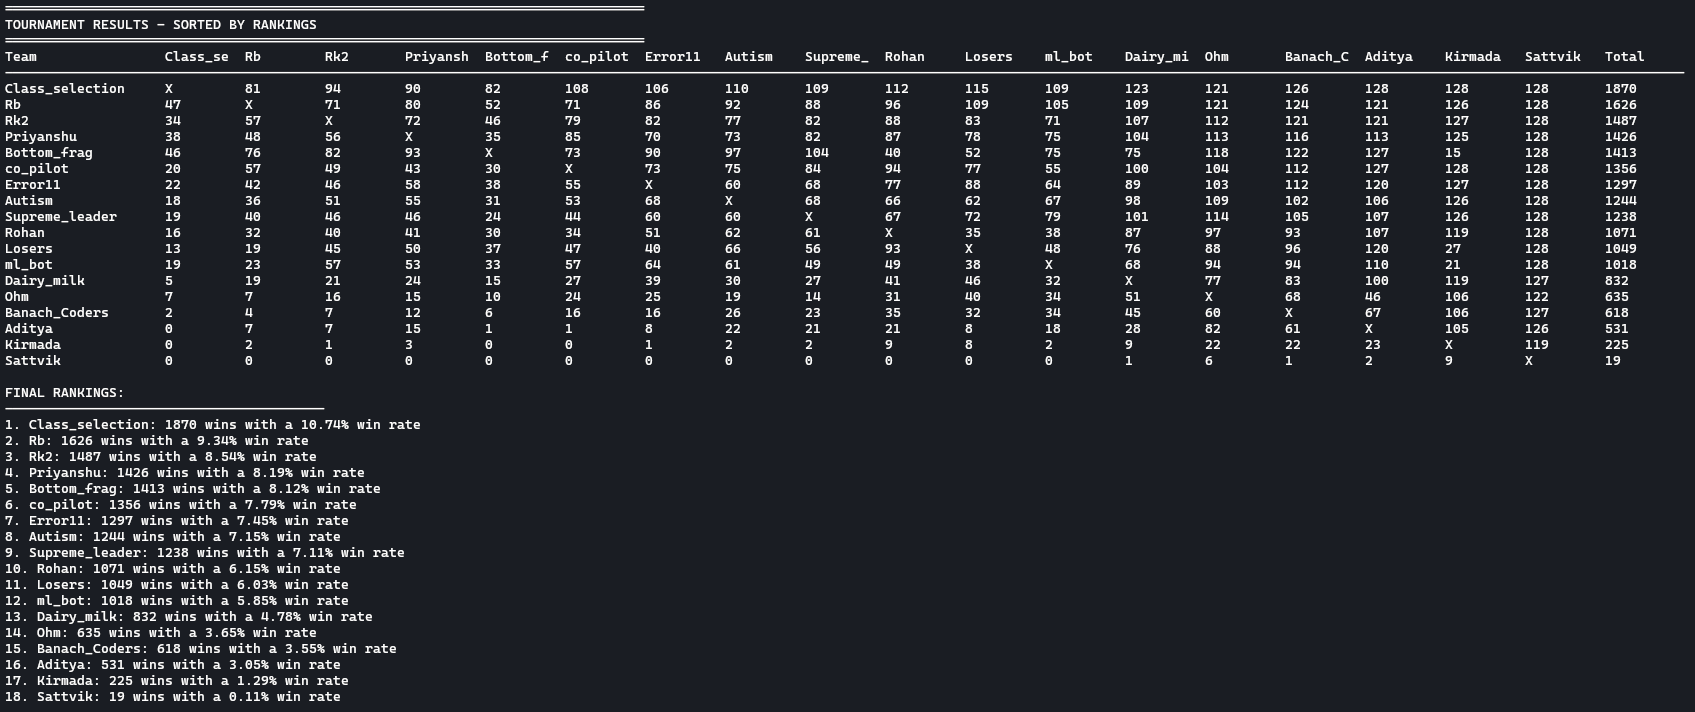
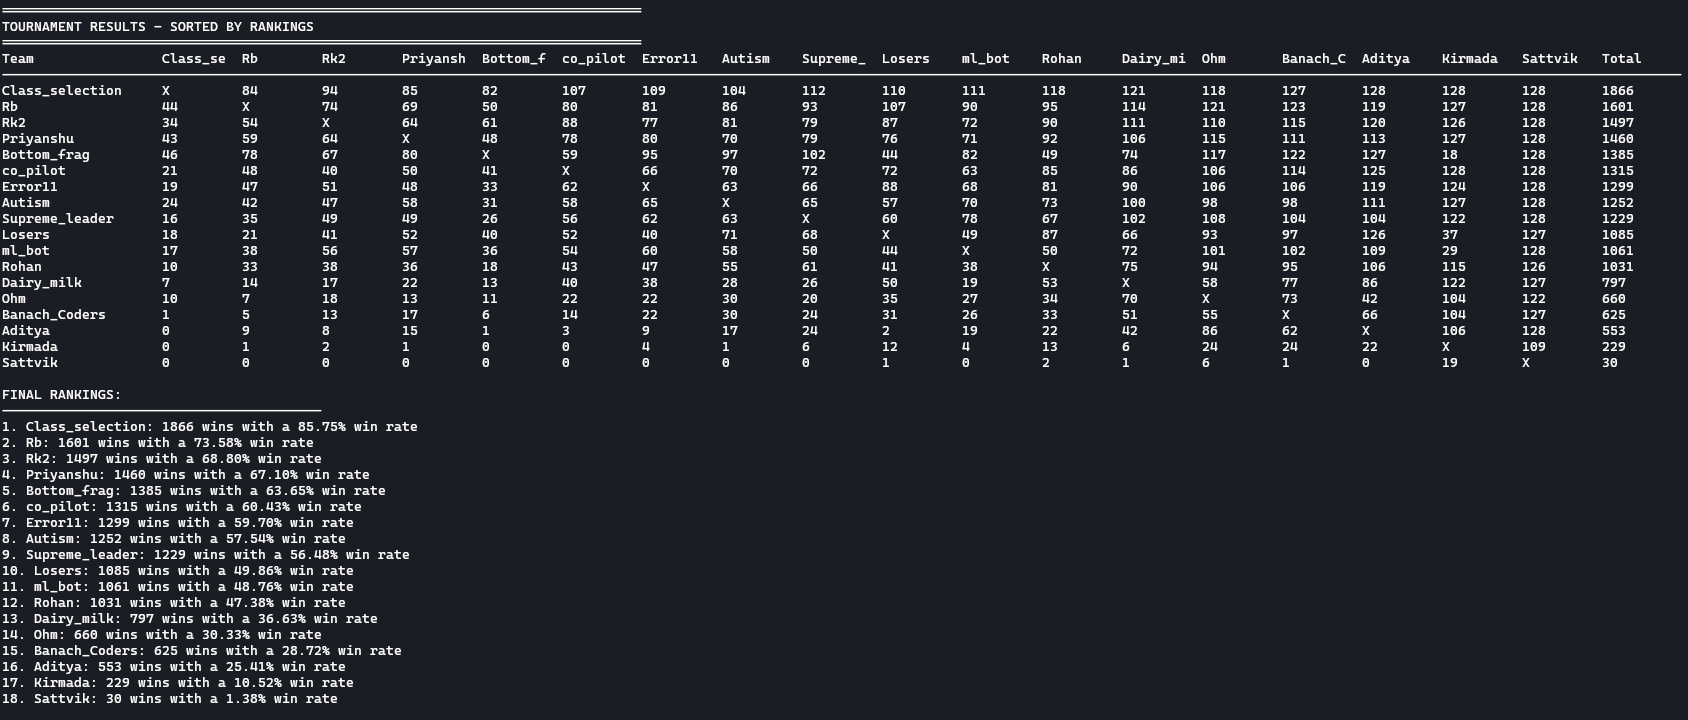
Final few tweaks before result announcement.

diff --git a/tournament.py b/tournament.py
@@ -7,6 +7,7 @@ import numpy as np
 from pandas import read_csv
 from game_engine import GameEngine
 
+NUM_OF_GAMES = 64
 
 def run_headless_ai_vs_ai(player1_class, player2_class, get_player1_action, get_player2_action):
     """Run AI vs AI without graphics and return winner"""
@@ -39,7 +40,7 @@ def play(player1, player2):
     get_player2_action = getattr(player2mod, "get_bot_action")
     get_player2_class = getattr(player2mod, "get_bot_class")
     results = []
-    for i in range(64):  # Run multiple games
+    for i in range(NUM_OF_GAMES):  # Run multiple games
         player_class_num = get_player1_class()
         opponent_class_num = get_player2_class()
         if player_class_num not in range(3):
@@ -114,7 +115,7 @@ def print_ranking_table(teams, results):
     print("\nFINAL RANKINGS:")
     print("-" * 40)
     for rank, (team_idx, team_name, wins) in enumerate(rankings, 1):
-        print(f"{rank}. {team_name}: {wins} wins with a {100* wins/( 512*2*( len(names)-1 ) ):.2f}% win rate")
+        print(f"{rank}. {team_name}: {wins} wins with a {100* wins/( NUM_OF_GAMES*2*( len(names)-1 ) ):.2f}% win rate")
 
     return rankings, results
 

diff --git a/player1.py b/player1.py
@@ -1,34 +1,1 @@
-import random
-
-
-def get_bot_class():
-    return 1
-
-def get_bot_action(current_game_state, game_archive):
-    """
-    This is the AI for the player's character in AI vs AI mode.
-    It receives the current state and the history of all previous states.
-    It must return a valid action string.
-    """
-    player_hp = current_game_state['player']['hp']
-    player_sp = current_game_state['player']['skill_points']
-    inventory = current_game_state['inventory']
-    
-    # Simple Logic:
-    # 1. If HP is low and has a Potion, heal.
-    if player_hp < 70 and inventory.get("Potion", 0) > 0:
-        return "Use Potion"
-    elif player_hp < 50 and inventory.get("Potion", 0) == 0 and inventory.get("Elixir", 0) > 0:
-        return "Use Elixir"
-    # 2. If opponent is low HP and we have a bomb, finish them!
-    if current_game_state['opponent']['hp'] < 45 and inventory.get("Bomb", 0) > 0:
-        return "Use Bomb"
-
-    if player_sp < 6:
-        return "Attack"
-    
-        
-    if random.random() < 0.3:
-        return "Cast Lightning Bolt"
-    else:
-        return "Attack"
+submissions/aggressive.py

diff --git a/submissions/aggressive.py b/submissions/aggressive.py
@@ -1,0 +1,23 @@
+def get_bot_class():
+    return 2
+
+def get_bot_action(current_game_state, game_archive):
+    """
+    This is the AI for the player's character in AI vs AI mode.
+    It receives the current state and the history of all previous states.
+    It must return a valid action string.
+    """
+    player_hp = current_game_state['player']['hp']
+    player_sp = current_game_state['player']['skill_points']
+    inventory = current_game_state['inventory']
+    if inventory.get('Bomb', 0) > 0:
+        return "Use Bomb"
+    if player_hp < 100 and inventory.get('Potion', 0) > 0:
+        return "Use Potion"
+    elif inventory.get('Elixir', 0) > 0:
+        return "Use Elixir"
+
+    if player_sp >= 4:
+        return "Cast Backstab"
+    else:
+        return "Attack"

diff --git a/player2.py b/player2.py
@@ -1,18 +1,1 @@
-from random import random
-
-
-def get_bot_class():
-    return 0
-
-def get_bot_action(current_game_state, game_archive):
-    """
-    This is the AI for the opponent's character.
-    A very simple bot that just attacks.
-    """
-    # This bot is not very smart. It just attacks every turn.
-    #action = "Attack"
-    if random() < 0.1 and current_game_state["player"]["skill_points"] >= 4:
-        action = "Cast Battle Cry"
-    else:
-        action = "Attack"
-    return action
+submissions/Class_selection.py
